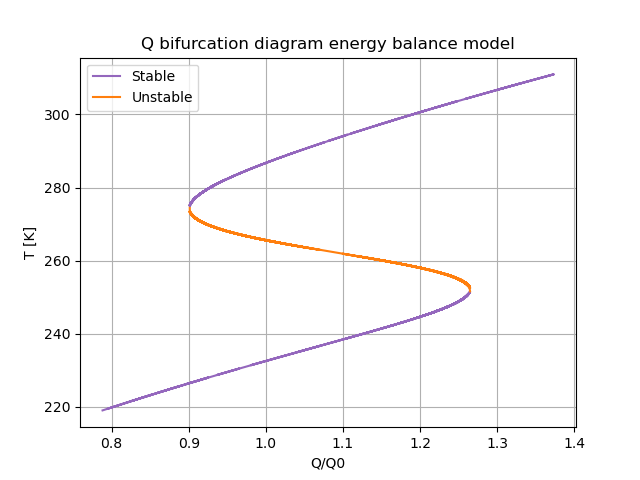
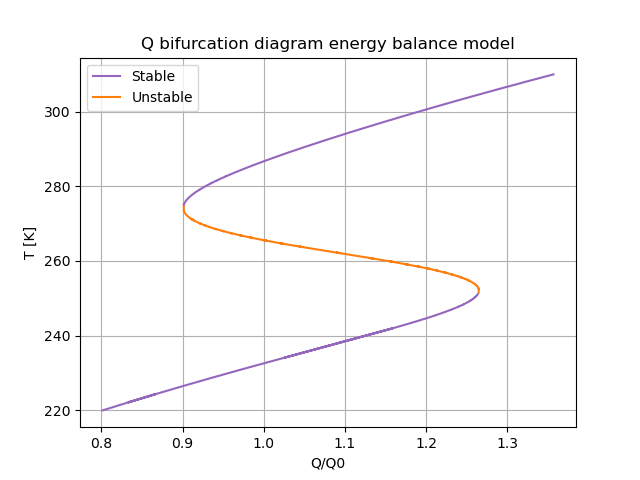
updated root finding

diff --git a/EnergyBalanceModel/EnergyBalance.py b/EnergyBalanceModel/EnergyBalance.py
@@ -33,6 +33,9 @@ def central_diff(f, a, Q, eps, h=0.01):
 
 #Function for computing the bifurcation diagram
 def compute_bifurcation(T_list, P_list):
+    #Temperature step size
+    dT = np.abs(T_list[0] - T_list[1])
+
     #Lists for saving
     P_s = []
     P_us = []
@@ -46,7 +49,7 @@ def compute_bifurcation(T_list, P_list):
             try: 
                 #Find the root of the function
                 if P_list[0]==0: T = T = brentq(f, T0-1, T0+1, args=(Q0, P))
-                else: T = brentq(f, T0-1, T0+1, args=(P,eps0))
+                else: T = brentq(f, T0-dT, T0+dT, args=(P,eps0))
 
                 #Determine the derivative at the root using central differences
                 if P_list[0]==0: deriv = central_diff(f, T, Q0, P, 0.01)
